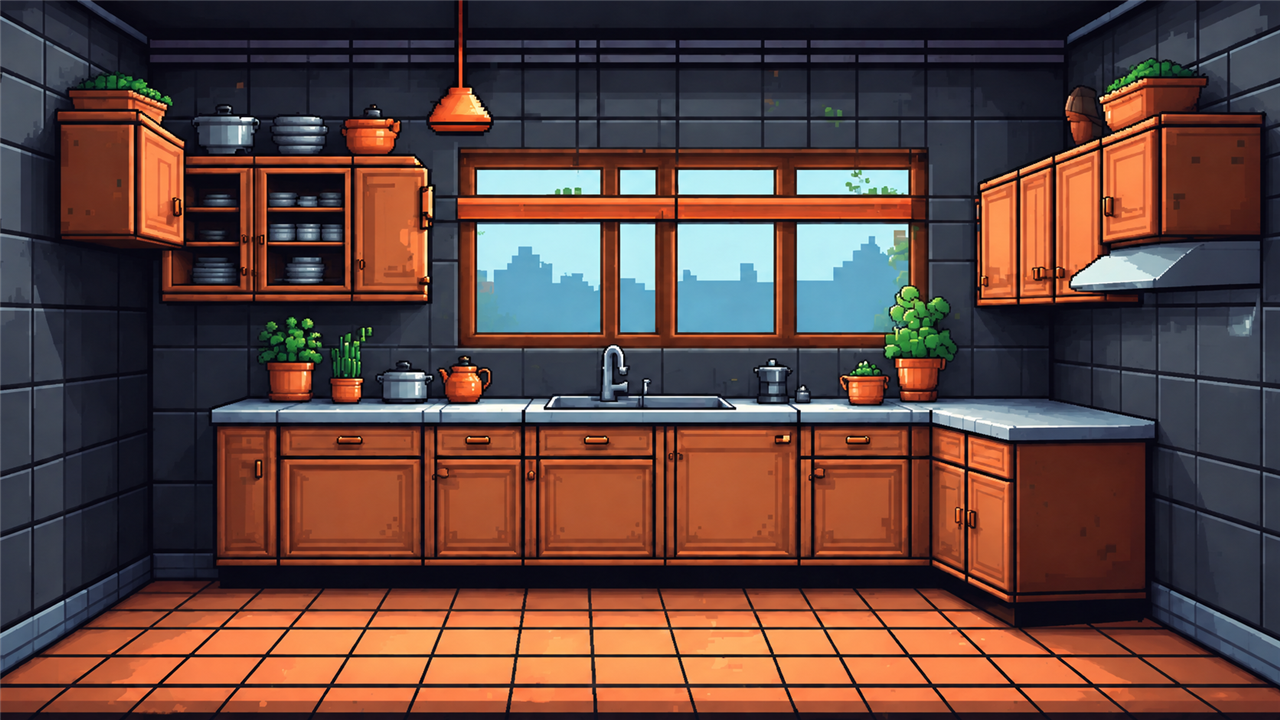
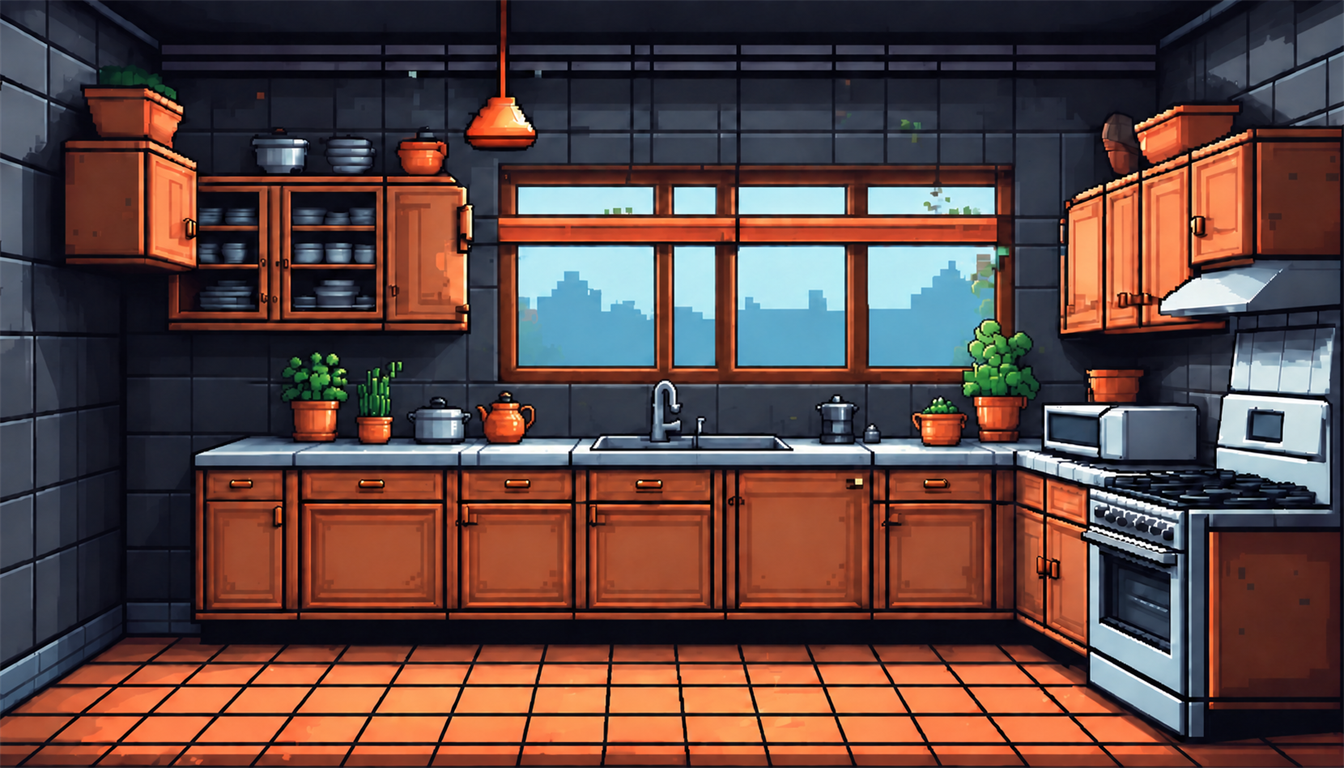
Se mejoro los hitbox de los muebles

diff --git a/GameProyect/Juego.cpp b/GameProyect/Juego.cpp
@@ -7,7 +7,12 @@
 Juego::Juego()
     : _window(sf::VideoMode({ ANCHO_VENTANA, ALTO_VENTANA }), "Chaos Cat SFML 3"),
       _spriteFondo(_texturaFondo),
-      _taza("images/TazaCafe.png", { 458.f, 478.f }, 0.2f),
+      _taza("images/TazaCafe.png", { 458.f, 490.f }, 0.2f),
+      _heladera("images/heladera.png", { 3.f, 300.f }, { 0.25f, 0.272f },
+          { { 177.f, 40.f }, { 695.f, 1459.f } }),
+      _mesa("images/mesa-larga.png", { 356.06f, 400.f }, { 0.280825f, 0.384588f },
+          { { 47.f, 293.f }, { 1442.f, 561.f } }),
+      _hitboxCocina({ { 1090.f, 470.f }, { 202.f, 265.f } }),
       _tocandoTaza(false),
       _mostrarHitboxes(true)
 {
@@ -46,7 +51,7 @@ void Juego::procesarEventos()
 void Juego::actualizar()
 {
     _gato.update();
-    resolverColisionGatoTaza();
+    resolverColisionesGato();
 
     if (sf::Keyboard::isKeyPressed(sf::Keyboard::Key::M))
     {
@@ -59,28 +64,33 @@ void Juego::dibujar()
 {
     _window.clear();
     _window.draw(_spriteFondo);
+    _window.draw(_heladera);
+    _window.draw(_mesa);
     _window.draw(_gato);
     _window.draw(_taza);
     dibujarHitboxes();
     _window.display();
 }
 
-void Juego::resolverColisionGatoTaza()
+void Juego::resolverColisionesGato()
+{
+    bool gatoApoyado = false;
+
+    gatoApoyado = gatoPuedeApoyarseEn(_heladera.getGlobalBounds()) || gatoApoyado;
+    gatoApoyado = gatoPuedeApoyarseEn(_hitboxCocina) || gatoApoyado;
+    gatoApoyado = gatoPuedeApoyarseEn(_mesa.getGlobalBounds()) || gatoApoyado;
+    gatoApoyado = resolverColisionGatoTaza() || gatoApoyado;
+
+    if (!gatoApoyado)
+    {
+        _gato.iniciarCaidaSiEstaElevado();
+    }
+}
+
+bool Juego::resolverColisionGatoTaza()
 {
     const sf::FloatRect areaTaza = _taza.getGlobalBounds();
     const sf::FloatRect areaGato = _gato.getGlobalBounds();
-    bool gatoApoyadoSobreTaza = false;
-
-    float gatoIzquierda = areaGato.position.x;
-    float gatoDerecha = areaGato.position.x + areaGato.size.x;
-    float baseGato = _gato.getBaseY();
-
-    float tazaIzquierda = areaTaza.position.x;
-    float tazaDerecha = areaTaza.position.x + areaTaza.size.x;
-    float tazaArriba = areaTaza.position.y;
-
-    bool seCruzanEnX = gatoDerecha > tazaIzquierda && gatoIzquierda < tazaDerecha;
-    bool gatoCercaDeArriba = baseGato >= tazaArriba - 8.f && baseGato <= tazaArriba + 30.f;
 
     if (areaGato.findIntersection(areaTaza))
     {
@@ -89,27 +99,36 @@ void Juego::resolverColisionGatoTaza()
             std::cout << "TIRAR TAZA" << std::endl;
             _tocandoTaza = true;
         }
-
-        if (seCruzanEnX && gatoCercaDeArriba)
-        {
-            _gato.apoyarEn(tazaArriba);
-            gatoApoyadoSobreTaza = true;
-        }
     }
     else
     {
         _tocandoTaza = false;
-
-        if (seCruzanEnX && gatoCercaDeArriba)
-        {
-            gatoApoyadoSobreTaza = true;
-        }
     }
 
-    if (!gatoApoyadoSobreTaza)
+    return gatoPuedeApoyarseEn(areaTaza);
+}
+
+bool Juego::gatoPuedeApoyarseEn(const sf::FloatRect& superficie)
+{
+    const sf::FloatRect areaGato = _gato.getGlobalBounds();
+    const float gatoIzquierda = areaGato.position.x;
+    const float gatoDerecha = areaGato.position.x + areaGato.size.x;
+    const float superficieIzquierda = superficie.position.x;
+    const float superficieDerecha = superficie.position.x + superficie.size.x;
+    const float superficieArriba = superficie.position.y;
+    const float baseGato = _gato.getBaseY();
+
+    const bool seCruzanEnX = gatoDerecha > superficieIzquierda && gatoIzquierda < superficieDerecha;
+    const bool gatoCercaDeArriba = baseGato >= superficieArriba - 8.f
+        && baseGato <= superficieArriba + 30.f;
+
+    if (seCruzanEnX && gatoCercaDeArriba)
     {
-        _gato.iniciarCaidaSiEstaElevado();
+        _gato.apoyarEn(superficieArriba);
+        return true;
     }
+
+    return false;
 }
 
 void Juego::dibujarHitboxes()
@@ -135,4 +154,28 @@ void Juego::dibujarHitboxes()
 
     _window.draw(rectGato);
     _window.draw(rectTaza);
+
+    const sf::FloatRect hitboxHeladera = _heladera.getGlobalBounds();
+    sf::RectangleShape rectHeladera(hitboxHeladera.size);
+    rectHeladera.setPosition(hitboxHeladera.position);
+    rectHeladera.setFillColor(sf::Color::Transparent);
+    rectHeladera.setOutlineColor(sf::Color::Blue);
+    rectHeladera.setOutlineThickness(2.f);
+
+    sf::RectangleShape rectCocina(_hitboxCocina.size);
+    rectCocina.setPosition(_hitboxCocina.position);
+    rectCocina.setFillColor(sf::Color::Transparent);
+    rectCocina.setOutlineColor(sf::Color::Magenta);
+    rectCocina.setOutlineThickness(2.f);
+
+    const sf::FloatRect hitboxMesa = _mesa.getGlobalBounds();
+    sf::RectangleShape rectMesa(hitboxMesa.size);
+    rectMesa.setPosition(hitboxMesa.position);
+    rectMesa.setFillColor(sf::Color::Transparent);
+    rectMesa.setOutlineColor(sf::Color::Yellow);
+    rectMesa.setOutlineThickness(2.f);
+
+    _window.draw(rectHeladera);
+    _window.draw(rectCocina);
+    _window.draw(rectMesa);
 }

diff --git a/GameProyect/Mueble.cpp b/GameProyect/Mueble.cpp
@@ -1,0 +1,51 @@
+#include "Mueble.h"
+
+#include <cstdlib>
+#include <iostream>
+
+sf::Texture Mueble::cargarTextura(const std::string& rutaTextura)
+{
+    sf::Texture textura;
+
+    if (!textura.loadFromFile(rutaTextura))
+    {
+        std::cout << "ERROR: NO SE PUDO CARGAR EL MUEBLE " << rutaTextura << '\n';
+        exit(-1);
+    }
+
+    return textura;
+}
+
+Mueble::Mueble(const std::string& rutaTextura,
+    const sf::Vector2f& posicion,
+    const sf::Vector2f& escala,
+    const sf::FloatRect& hitboxLocal)
+    : _textura(cargarTextura(rutaTextura)),
+      _sprite(_textura),
+      _hitboxLocal(hitboxLocal)
+{
+    _sprite.setPosition(posicion);
+    _sprite.setScale(escala);
+}
+
+sf::FloatRect Mueble::getGlobalBounds() const
+{
+    const sf::Vector2f posicion = _sprite.getPosition();
+    const sf::Vector2f escala = _sprite.getScale();
+
+    return {
+        {
+            posicion.x + _hitboxLocal.position.x * escala.x,
+            posicion.y + _hitboxLocal.position.y * escala.y
+        },
+        {
+            _hitboxLocal.size.x * escala.x,
+            _hitboxLocal.size.y * escala.y
+        }
+    };
+}
+
+void Mueble::draw(sf::RenderTarget& target, sf::RenderStates states) const
+{
+    target.draw(_sprite, states);
+}

diff --git a/GameProyect/Juego.h b/GameProyect/Juego.h
@@ -1,5 +1,6 @@
 #pragma once
 #include <SFML/Graphics.hpp>
+#include "Mueble.h"
 #include "Personaje.h"
 #include "ObjetoChico.h"
 
@@ -12,6 +13,9 @@ private:
 
     Personaje _gato;
     ObjetoChico _taza;
+    Mueble _heladera;
+    Mueble _mesa;
+    sf::FloatRect _hitboxCocina;
 
     bool _tocandoTaza;
     bool _mostrarHitboxes;
@@ -19,7 +23,9 @@ private:
     void procesarEventos();
     void actualizar();
     void dibujar();
-    void resolverColisionGatoTaza();
+    void resolverColisionesGato();
+    bool resolverColisionGatoTaza();
+    bool gatoPuedeApoyarseEn(const sf::FloatRect& superficie);
     void dibujarHitboxes();
 
 public:

diff --git a/GameProyect/Mueble.h b/GameProyect/Mueble.h
@@ -1,0 +1,25 @@
+#pragma once
+
+#include <SFML/Graphics.hpp>
+#include <string>
+
+class Mueble : public sf::Drawable
+{
+private:
+    sf::Texture _textura;
+    sf::Sprite _sprite;
+    sf::FloatRect _hitboxLocal;
+
+    static sf::Texture cargarTextura(const std::string& rutaTextura);
+
+public:
+    Mueble(const std::string& rutaTextura,
+        const sf::Vector2f& posicion,
+        const sf::Vector2f& escala,
+        const sf::FloatRect& hitboxLocal);
+
+    sf::FloatRect getGlobalBounds() const;
+
+    void draw(sf::RenderTarget& target,
+        sf::RenderStates states) const override;
+};
